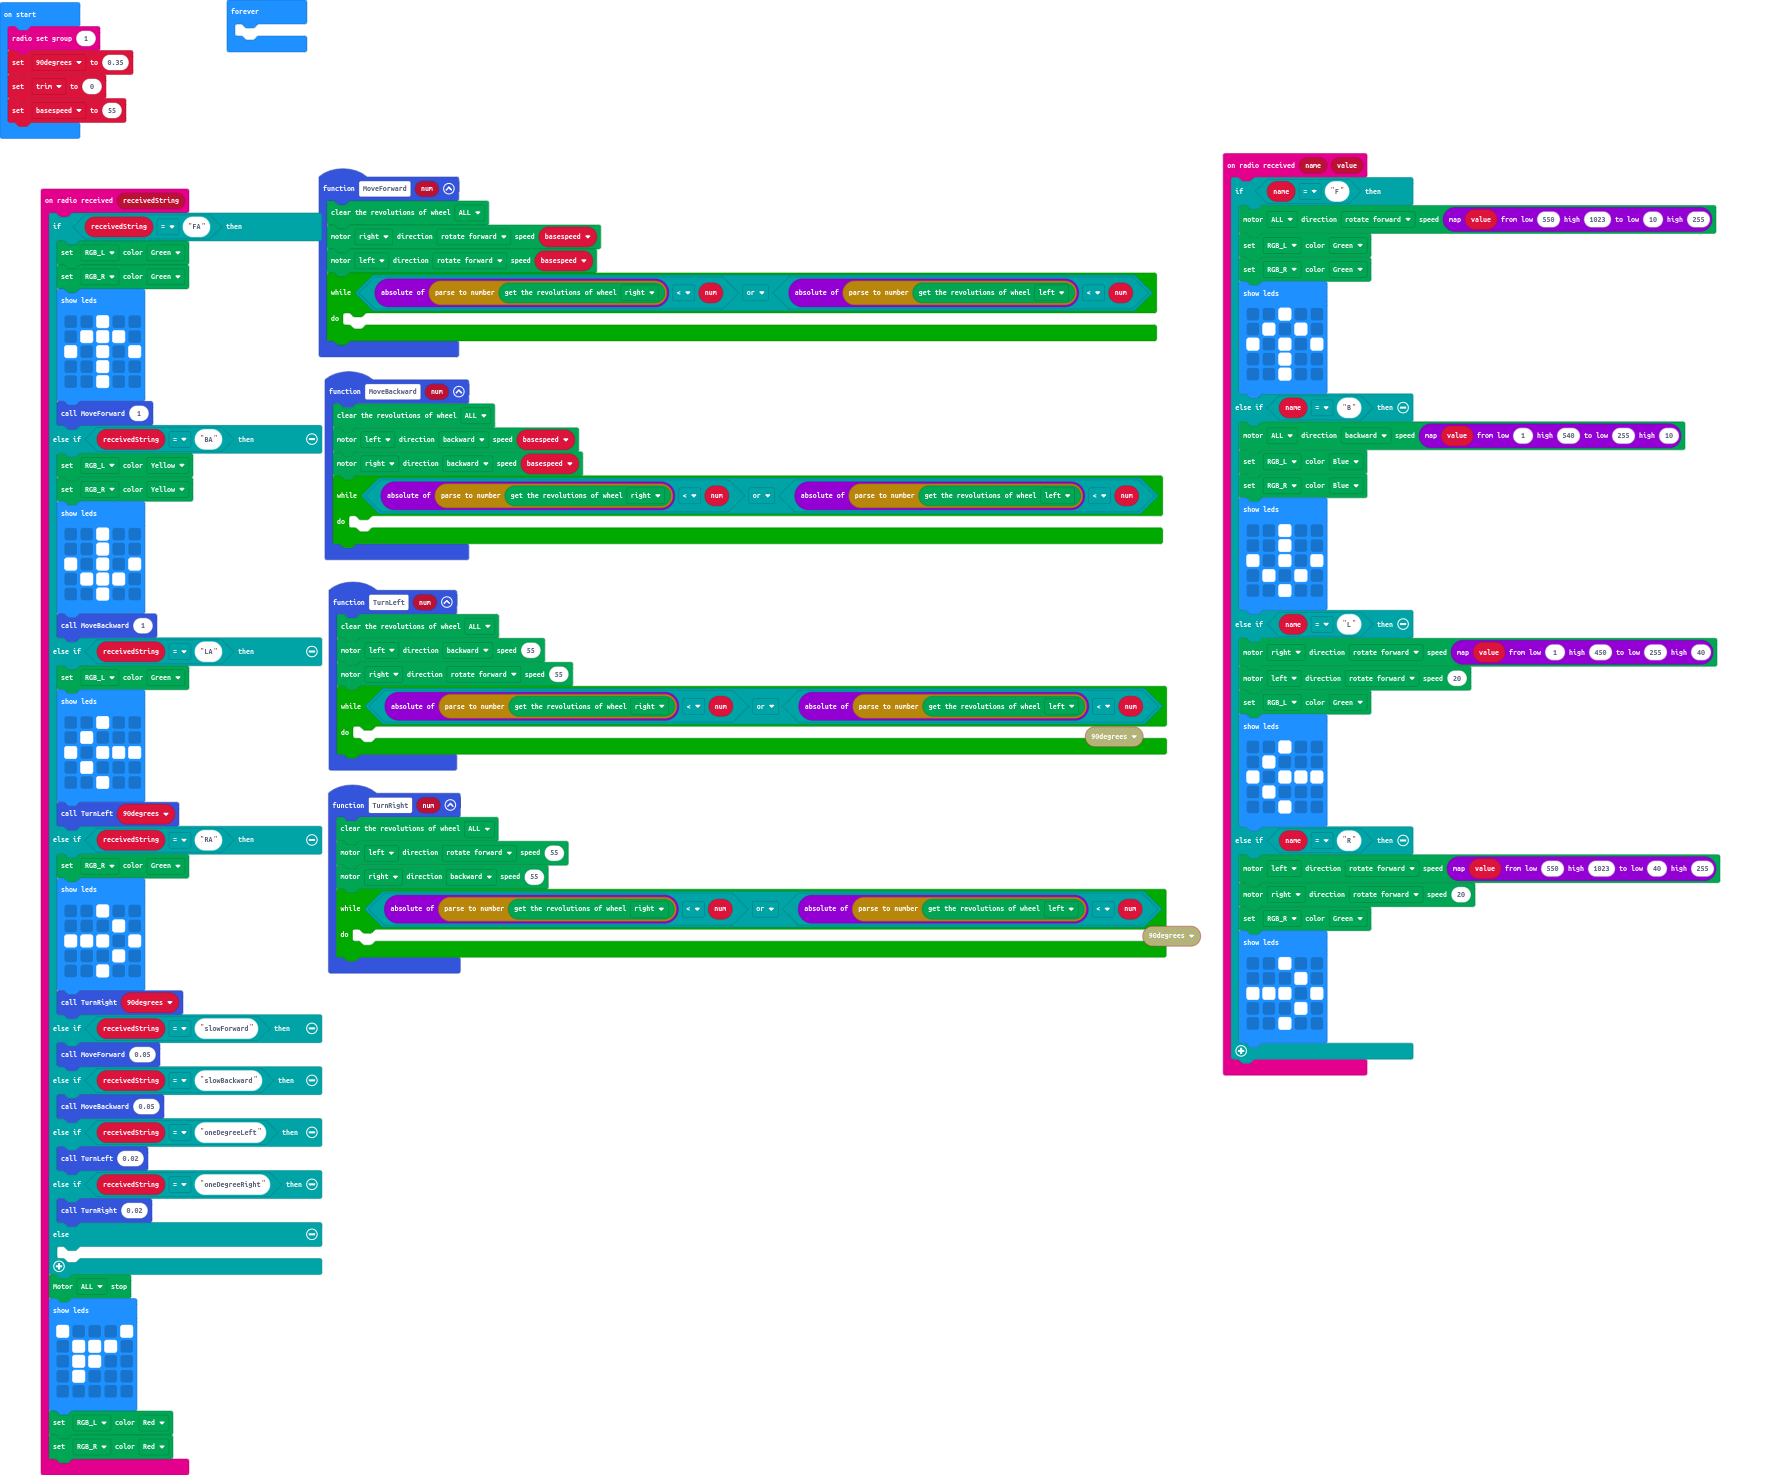
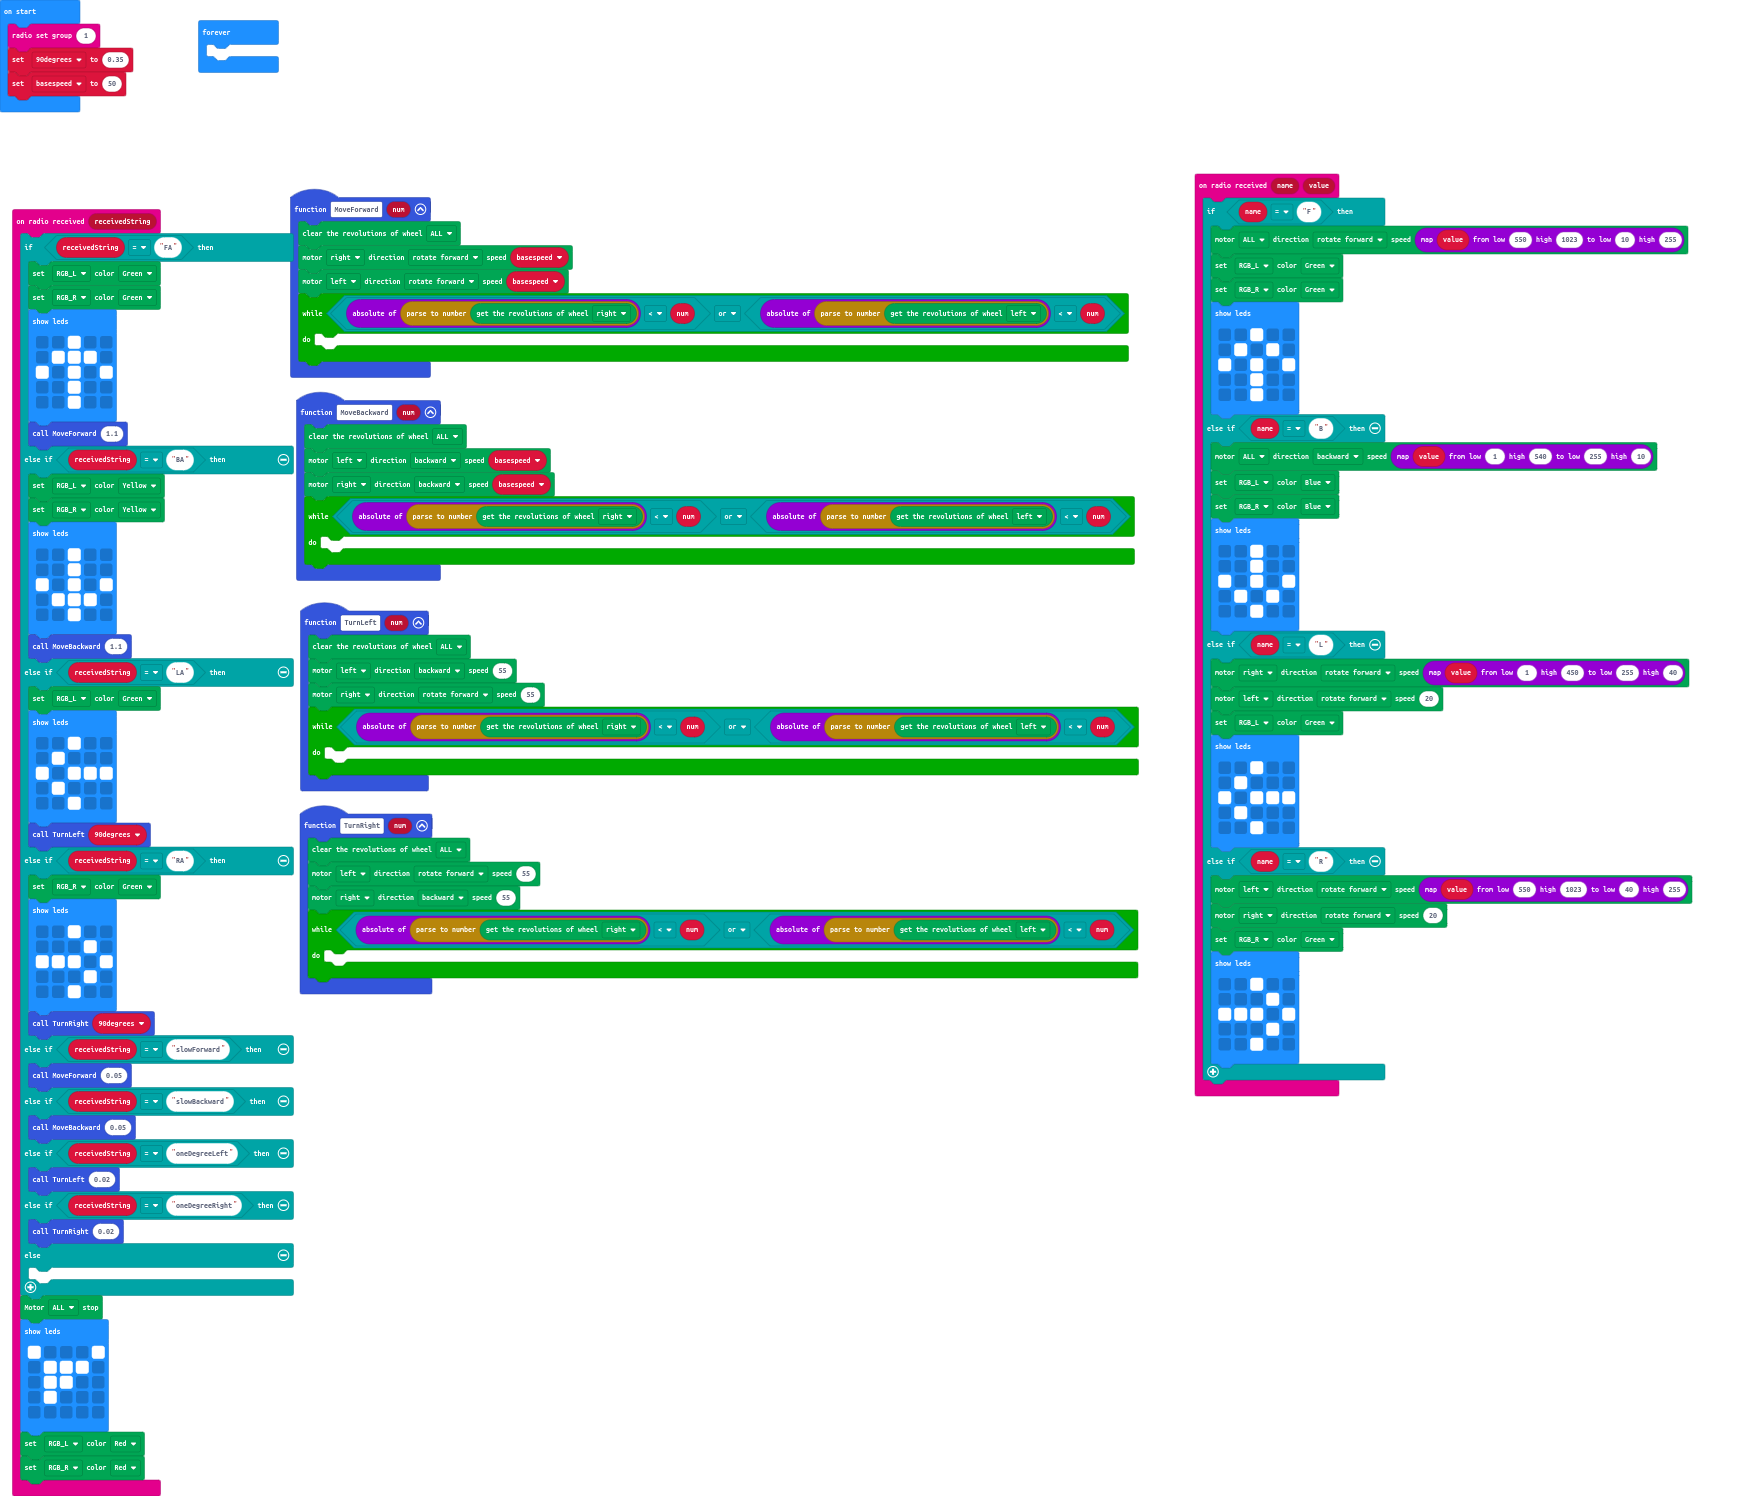
remove unused var trim

Changed region(s): [[0.0, 0.0936, 0.9908, 1.0], [0.0, 0.0, 0.1858, 0.0936]]

diff --git a/main.ts b/main.ts
@@ -17,7 +17,7 @@ radio.onReceivedString(function (receivedString) {
             . . # . .
             . . # . .
             `)
-        MoveForward(1)
+        MoveForward(1.1)
     } else if (receivedString == "BA") {
         DFRobotMaqueenPlus.setRGBLight(RGBLight.RGBL, Color.YELLOW)
         DFRobotMaqueenPlus.setRGBLight(RGBLight.RGBR, Color.YELLOW)
@@ -28,7 +28,7 @@ radio.onReceivedString(function (receivedString) {
             . # # # .
             . . # . .
             `)
-        MoveBackward(1)
+        MoveBackward(1.1)
     } else if (receivedString == "LA") {
         DFRobotMaqueenPlus.setRGBLight(RGBLight.RGBL, Color.GREEN)
         basic.showLeds(`
@@ -146,8 +146,7 @@ let basespeed = 0
 let _90degrees = 0
 radio.setGroup(1)
 _90degrees = 0.35
-let trim = 0
-basespeed = 55
+basespeed = 50
 basic.forever(function () {
 	
 })
